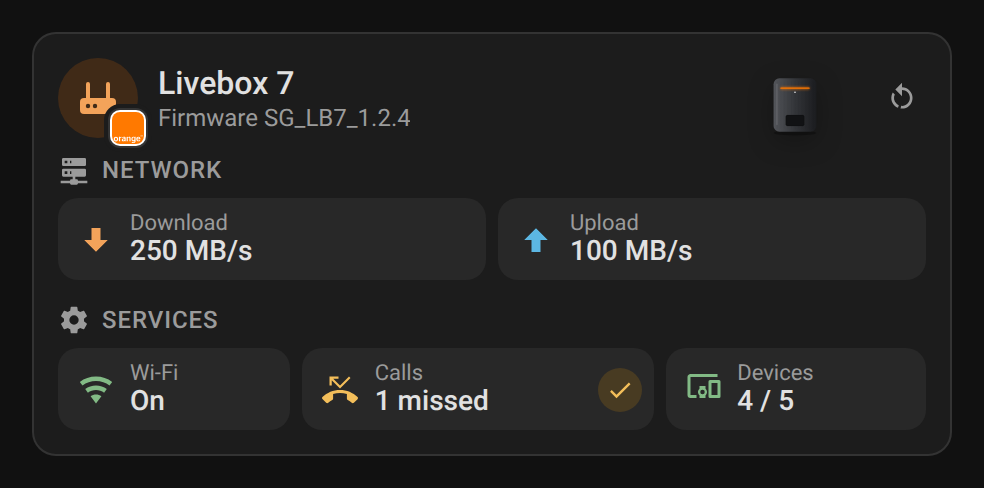
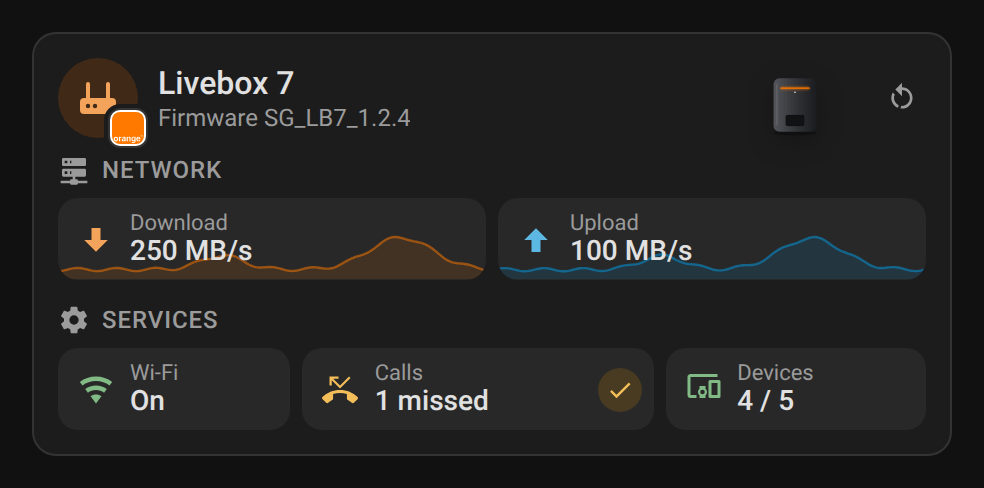
feat: 24 h history behind the rate tiles (#73)
The full card draws the last 24 hours of download / upload behind each
rate tile.

- Recorder `statistics_during_period`, 5-minute means, refreshed every 5
minutes (retries after 1 min on error)
- `show_history: false` turns it off (editor toggle, 22 languages)
- Screenshot mock answers the statistics query
- Version 2.3.0

---
_Generated by [Claude
Code](https://claude.ai/code/session_01F4sAn1Ek4h88w9whpdhjW8)_

---------

diff --git a/src/internet-box-card.js b/src/internet-box-card.js
@@ -505,6 +505,7 @@ const STRINGS = {
     admin_url: "Box admin address (optional, opened when clicking the picture)",
     show_logo: "Show the operator logo",
     show_network: "Show network",
+    show_history: "Show 24 h rate history",
     show_system: "Show system (temperatures, fans)",
     show_storage: "Show storage",
     show_services: "Show services (Wi-Fi, calls, devices)",
@@ -565,6 +566,7 @@ const STRINGS = {
     admin_url: "Adresse d'administration de la box (facultatif, ouverte au clic sur l'illustration)",
     show_logo: "Afficher le logo de l'opérateur",
     show_network: "Afficher le réseau",
+    show_history: "Afficher l’historique 24 h des débits",
     show_system: "Afficher le système (températures, ventilateurs)",
     show_storage: "Afficher le stockage",
     show_services: "Afficher les services (Wi-Fi, appels, appareils)",
@@ -624,6 +626,7 @@ const STRINGS = {
     admin_url: "Verwaltungsadresse der Box (optional, wird beim Klick auf das Bild geöffnet)",
     show_logo: "Logo des Anbieters anzeigen",
     show_network: "Netzwerk anzeigen",
+    show_history: "24-h-Verlauf der Raten anzeigen",
     show_system: "System anzeigen (Temperaturen, Lüfter)",
     show_storage: "Speicher anzeigen",
     show_services: "Dienste anzeigen (WLAN, Anrufe, Geräte)",
@@ -684,6 +687,7 @@ const STRINGS = {
     admin_url: "Dirección de administración del router (opcional, se abre al hacer clic en la imagen)",
     show_logo: "Mostrar el logotipo del operador",
     show_network: "Mostrar la red",
+    show_history: "Mostrar el historial de 24 h de las velocidades",
     show_system: "Mostrar el sistema (temperaturas, ventiladores)",
     show_storage: "Mostrar el almacenamiento",
     show_services: "Mostrar los servicios (Wi-Fi, llamadas, dispositivos)",
@@ -745,6 +749,7 @@ const STRINGS = {
     admin_url: "Администраторска адреса рутера (опционо, отвара се кликом на слику)",
     show_logo: "Прикажи лого оператера",
     show_network: "Прикажи мрежу",
+    show_history: "Прикажи историју протока за 24 ч",
     show_system: "Прикажи систем (температуре, вентилатори)",
     show_storage: "Прикажи складиште",
     show_services: "Прикажи услуге (Wi-Fi, позиви, уређаји)",
@@ -806,6 +811,7 @@ const STRINGS = {
     admin_url: "Administratorska adresa rutera (opciono, otvara se klikom na sliku)",
     show_logo: "Prikaži logo operatera",
     show_network: "Prikaži mrežu",
+    show_history: "Prikaži istoriju protoka za 24 č",
     show_system: "Prikaži sistem (temperature, ventilatori)",
     show_storage: "Prikaži skladište",
     show_services: "Prikaži usluge (Wi-Fi, pozivi, uređaji)",
@@ -866,6 +872,7 @@ const STRINGS = {
     admin_url: "Indirizzo di amministrazione del modem (facoltativo, aperto al clic sull'immagine)",
     show_logo: "Mostra il logo dell'operatore",
     show_network: "Mostra la rete",
+    show_history: "Mostra lo storico 24 h delle velocità",
     show_system: "Mostra il sistema (temperature, ventole)",
     show_storage: "Mostra l'archiviazione",
     show_services: "Mostra i servizi (Wi-Fi, chiamate, dispositivi)",
@@ -925,6 +932,7 @@ const STRINGS = {
     admin_url: "Beheeradres van de modem (optioneel, geopend bij klikken op de afbeelding)",
     show_logo: "Logo van de provider tonen",
     show_network: "Netwerk tonen",
+    show_history: "24-uursgeschiedenis van de snelheden weergeven",
     show_system: "Systeem tonen (temperaturen, ventilatoren)",
     show_storage: "Opslag tonen",
     show_services: "Diensten tonen (Wi-Fi, oproepen, apparaten)",
@@ -985,6 +993,7 @@ const STRINGS = {
     admin_url: "Endereço de administração do router (opcional, aberto ao clicar na imagem)",
     show_logo: "Mostrar o logótipo do operador",
     show_network: "Mostrar a rede",
+    show_history: "Mostrar o histórico de 24 h dos débitos",
     show_system: "Mostrar o sistema (temperaturas, ventoinhas)",
     show_storage: "Mostrar o armazenamento",
     show_services: "Mostrar os serviços (Wi-Fi, chamadas, dispositivos)",
@@ -1047,6 +1056,7 @@ const STRINGS = {
     admin_url: "Adres panelu administracyjnego routera (opcjonalny, otwierany po kliknięciu obrazu)",
     show_logo: "Pokaż logo operatora",
     show_network: "Pokaż sieć",
+    show_history: "Pokaż historię przepustowości z 24 h",
     show_system: "Pokaż system (temperatury, wentylatory)",
     show_storage: "Pokaż pamięć masową",
     show_services: "Pokaż usługi (Wi-Fi, połączenia, urządzenia)",
@@ -1107,6 +1117,7 @@ const STRINGS = {
     admin_url: "Adresa de administrare a routerului (opțional, se deschide la clic pe imagine)",
     show_logo: "Afișează sigla operatorului",
     show_network: "Afișează rețeaua",
+    show_history: "Afișează istoricul vitezelor pe 24 h",
     show_system: "Afișează sistemul (temperaturi, ventilatoare)",
     show_storage: "Afișează stocarea",
     show_services: "Afișează serviciile (Wi-Fi, apeluri, dispozitive)",
@@ -1167,6 +1178,7 @@ const STRINGS = {
     admin_url: "Routerens administrationsadresse (valgfri, åbnes ved klik på billedet)",
     show_logo: "Vis operatørens logo",
     show_network: "Vis netværk",
+    show_history: "Vis 24-timers historik for hastigheder",
     show_system: "Vis system (temperaturer, blæsere)",
     show_storage: "Vis lager",
     show_services: "Vis tjenester (Wi-Fi, opkald, enheder)",
@@ -1227,6 +1239,7 @@ const STRINGS = {
     admin_url: "Routerns administrationsadress (valfri, öppnas vid klick på bilden)",
     show_logo: "Visa operatörens logotyp",
     show_network: "Visa nätverk",
+    show_history: "Visa 24 h-historik för hastigheter",
     show_system: "Visa system (temperaturer, fläktar)",
     show_storage: "Visa lagring",
     show_services: "Visa tjänster (Wi-Fi, samtal, enheter)",
@@ -1287,6 +1300,7 @@ const STRINGS = {
     admin_url: "Администраторски адрес на рутера (по избор, отваря се при щракване върху изображението)",
     show_logo: "Показване на логото на оператора",
     show_network: "Показване на мрежата",
+    show_history: "Показване на 24-часовата история на скоростите",
     show_system: "Показване на системата (температури, вентилатори)",
     show_storage: "Показване на хранилището",
     show_services: "Показване на услугите (Wi-Fi, обаждания, устройства)",
@@ -1347,6 +1361,7 @@ const STRINGS = {
     admin_url: "Адрес веб-интерфейса роутера (необязательно, открывается по нажатию на изображение)",
     show_logo: "Показывать логотип оператора",
     show_network: "Показывать сеть",
+    show_history: "Показать историю скоростей за 24 ч",
     show_system: "Показывать систему (температуры, вентиляторы)",
     show_storage: "Показывать хранилище",
     show_services: "Показывать сервисы (Wi-Fi, звонки, устройства)",
@@ -1408,6 +1423,7 @@ const STRINGS = {
     admin_url: "Адреса вебінтерфейсу роутера (необов’язково, відкривається натисканням на зображення)",
     show_logo: "Показувати логотип оператора",
     show_network: "Показувати мережу",
+    show_history: "Показати історію швидкостей за 24 год",
     show_system: "Показувати систему (температури, вентилятори)",
     show_storage: "Показувати сховище",
     show_services: "Показувати сервіси (Wi-Fi, дзвінки, пристрої)",
@@ -1467,6 +1483,7 @@ const STRINGS = {
     admin_url: "A router felügyeleti címe (nem kötelező, a képre kattintva nyílik meg)",
     show_logo: "A szolgáltató logójának megjelenítése",
     show_network: "Hálózat megjelenítése",
+    show_history: "Sebességek 24 órás előzményeinek megjelenítése",
     show_system: "Rendszer megjelenítése (hőmérsékletek, ventilátorok)",
     show_storage: "Tárhely megjelenítése",
     show_services: "Szolgáltatások megjelenítése (Wi-Fi, hívások, eszközök)",
@@ -1528,6 +1545,7 @@ const STRINGS = {
     admin_url: "Administračná adresa routera (voliteľná, otvorí sa po kliknutí na obrázok)",
     show_logo: "Zobraziť logo operátora",
     show_network: "Zobraziť sieť",
+    show_history: "Zobraziť 24 h históriu rýchlostí",
     show_system: "Zobraziť systém (teploty, ventilátory)",
     show_storage: "Zobraziť úložisko",
     show_services: "Zobraziť služby (Wi-Fi, hovory, zariadenia)",
@@ -1589,6 +1607,7 @@ const STRINGS = {
     admin_url: "Administrační adresa routeru (volitelná, otevře se kliknutím na obrázek)",
     show_logo: "Zobrazit logo operátora",
     show_network: "Zobrazit síť",
+    show_history: "Zobrazit 24h historii rychlostí",
     show_system: "Zobrazit systém (teploty, ventilátory)",
     show_storage: "Zobrazit úložiště",
     show_services: "Zobrazit služby (Wi-Fi, hovory, zařízení)",
@@ -1651,6 +1670,7 @@ const STRINGS = {
     admin_url: "Skrbniški naslov usmerjevalnika (neobvezno, odpre se ob kliku na sliko)",
     show_logo: "Prikaži logotip operaterja",
     show_network: "Prikaži omrežje",
+    show_history: "Prikaži 24-urno zgodovino hitrosti",
     show_system: "Prikaži sistem (temperature, ventilatorji)",
     show_storage: "Prikaži shrambo",
     show_services: "Prikaži storitve (Wi-Fi, klici, naprave)",
@@ -1711,6 +1731,7 @@ const STRINGS = {
     admin_url: "Maršrutētāja administrēšanas adrese (neobligāta, tiek atvērta, noklikšķinot uz attēla)",
     show_logo: "Rādīt operatora logotipu",
     show_network: "Rādīt tīklu",
+    show_history: "Rādīt ātrumu 24 h vēsturi",
     show_system: "Rādīt sistēmu (temperatūras, ventilatori)",
     show_storage: "Rādīt krātuvi",
     show_services: "Rādīt pakalpojumus (Wi-Fi, zvani, ierīces)",
@@ -1771,6 +1792,7 @@ const STRINGS = {
     admin_url: "Διεύθυνση διαχείρισης του δρομολογητή (προαιρετική, ανοίγει με κλικ στην εικόνα)",
     show_logo: "Εμφάνιση λογότυπου παρόχου",
     show_network: "Εμφάνιση δικτύου",
+    show_history: "Εμφάνιση ιστορικού ταχυτήτων 24 ωρών",
     show_system: "Εμφάνιση συστήματος (θερμοκρασίες, ανεμιστήρες)",
     show_storage: "Εμφάνιση αποθήκευσης",
     show_services: "Εμφάνιση υπηρεσιών (Wi-Fi, κλήσεις, συσκευές)",
@@ -2393,7 +2415,11 @@ const BASE_STYLE = `
   @container (max-width: 200px) { .box-link { display: none; } }
   .box { height: 48px; width: auto; max-width: 100%; object-fit: contain; filter: drop-shadow(0 4px 6px rgba(0,0,0,.25)); }
   .tile { display: flex; align-items: center; gap: 8px; padding: 6px 10px; border-radius: 10px; min-width: 0;
-          background: var(--secondary-background-color, rgba(127,127,127,.08)); }
+          background: var(--secondary-background-color, rgba(127,127,127,.08)); position: relative; overflow: hidden; }
+  .tile > :not(.spark) { position: relative; }
+  .tile .spark { position: absolute; left: 0; bottom: 0; width: 100%; height: 55%; pointer-events: none; }
+  .spark-a { fill: color-mix(in srgb, var(--c) 12%, transparent); }
+  .spark-l { fill: none; stroke: color-mix(in srgb, var(--c) 50%, transparent); stroke-width: 1.2; vector-effect: non-scaling-stroke; }
   .tile .icon { color: color-mix(in srgb, var(--c, var(--ibc-red)) 60%, var(--primary-text-color)); }
   .tile > div { min-width: 0; }
   .tile .k { font-size: 11px; color: var(--secondary-text-color); white-space: nowrap; overflow: hidden; text-overflow: ellipsis; }
@@ -2432,6 +2458,15 @@ const DIALOG_STYLE = `
   .modal button.cancel:hover { background: color-mix(in srgb, var(--secondary-text-color) 16%, var(--secondary-background-color, transparent)); }
   .modal button.danger:hover { background: color-mix(in srgb, var(--ibc-red) 26%, transparent); }
 `;
+
+// Sparkline of a series (24 h of rates), scaled from 0 to its peak; nothing under two points.
+const HIST_REFRESH = 5 * 60000;
+function spark(values) {
+  if (!values || values.length < 2) return "";
+  const peak = Math.max(...values) || 1;
+  const pts = values.map((v, i) => `${((i / (values.length - 1)) * 100).toFixed(2)},${(30 - (Math.max(0, v) / peak) * 28).toFixed(2)}`).join("L");
+  return `<svg class="spark" viewBox="0 0 100 30" preserveAspectRatio="none" aria-hidden="true"><path class="spark-a" d="M0,30L${pts}L100,30Z"/><path class="spark-l" d="M${pts}"/></svg>`;
+}
 
 class InternetBoxBase extends HTMLElement {
   constructor() {
@@ -2606,8 +2641,8 @@ class InternetBoxBase extends HTMLElement {
   }
 
   // Download / upload rate tile, shared by the full and the mini card.
-  _rateTile(id, cls, icon, k) {
-    return `<div class="tile clickable ${cls}" role="button" tabindex="0" data-entity="${id || ""}">${svgIcon(icon)}<div><div class="k">${k}</div><div class="v">${this._rate(
+  _rateTile(id, cls, icon, k, hist) {
+    return `<div class="tile clickable ${cls}" role="button" tabindex="0" data-entity="${id || ""}">${spark(hist?.[id])}${svgIcon(icon)}<div><div class="k">${k}</div><div class="v">${this._rate(
       id
     )}</div></div></div>`;
   }
@@ -2630,6 +2665,34 @@ class InternetBoxBase extends HTMLElement {
     for (const id of ids) sig.push(h.states[id]);
     if (this._s(box.scalars.router)?.attributes?.uptime) sig.push(Math.floor(Date.now() / 60e3));
     return sig;
+  }
+
+  // 24 h of 5-minute means from the recorder's statistics, fetched again every 5 minutes. Returns what is
+  // already there (nothing at first): the card renders again when the answer comes.
+  _history(ids) {
+    const key = ids.join(",");
+    if (key && this._hass.callWS && (this._histKey !== key || Date.now() - this._histAt > HIST_REFRESH)) {
+      this._histKey = key;
+      this._histAt = Date.now();
+      this._hass
+        .callWS({
+          type: "recorder/statistics_during_period",
+          start_time: new Date(Date.now() - 864e5).toISOString(),
+          statistic_ids: ids,
+          period: "5minute",
+          types: ["mean"],
+        })
+        .then((r) => {
+          if (this._histKey !== key) return;
+          this._hist = Object.fromEntries(ids.map((id) => [id, (r?.[id] || []).map((p) => p.mean).filter(Number.isFinite)]));
+          this._update();
+        })
+        // No statistics (sensor without state_class, recorder off): try again in a minute, no curve meanwhile.
+        .catch(() => {
+          this._histAt = Date.now() - HIST_REFRESH + 60000;
+        });
+    }
+    return this._histKey === key ? this._hist : null;
   }
 
   _update(sig) {
@@ -2876,11 +2939,12 @@ class InternetBoxCard extends InternetBoxBase {
           this._config
         )}</span>`
       );
+    const hist = this._config.show_history === false ? null : this._history([sc.rate_down, sc.rate_up].filter(Boolean));
     return `<div>
       <div class="section-title">${svgIcon(ICONS.network)}${this._t("network")}</div>
       <div class="grid2">
-        ${this._rateTile(sc.rate_down, "down", ICONS.down, this._t("download"))}
-        ${this._rateTile(sc.rate_up, "up", ICONS.up, this._t("upload"))}
+        ${this._rateTile(sc.rate_down, "down", ICONS.down, this._t("download"), hist)}
+        ${this._rateTile(sc.rate_up, "up", ICONS.up, this._t("upload"), hist)}
       </div>
       ${facts.length ? `<div class="facts">${facts.join("")}</div>` : ""}
     </div>`;
@@ -3290,7 +3354,7 @@ class InternetBoxEditorBase extends HTMLElement {
 
 class InternetBoxCardEditor extends InternetBoxEditorBase {
   static get toggles() {
-    return ["show_network", "show_system", "show_storage", "show_services"];
+    return ["show_network", "show_history", "show_system", "show_storage", "show_services"];
   }
 }
 

diff --git a/README.md b/README.md
@@ -33,7 +33,7 @@ Entities are **discovered automatically**, you don't have to pick them one by on
 - Header icon of the kind of connection (fibre, xDSL, 4G / 5G, else a box) in the operator colour, with the operator logo as a badge; accent colour, website and admin links follow the detected operator
 - Picture and commercial name of the box model, detected automatically or set with the `model` option, and firmware version
 - Connection status and type (FTTH, xDSL…), public IPv4 (IPv6 on hover) and uptime
-- Download / upload rates, in bytes (kB/s, MB/s) or bits (kb/s, Mb/s)
+- Download / upload rates, in bytes (kB/s, MB/s) or bits (kb/s, Mb/s), with their last 24 hours drawn behind each tile (recorder statistics)
 - Temperature gauges and fans speed
 - Storage: free space of the disk partitions and RAID status
 - Services: Wi-Fi state, missed calls and connected devices (the mini card footer always shows the missed calls, orange when there are some)
@@ -155,6 +155,7 @@ language: fr
 | `show_image` | both | `true` | Show the box picture |
 | `show_logo` | both | `true` | Show the header icon of the connection with the operator logo (opens the operator website when clicked) |
 | `show_network` | both | `true` | Download / upload rates (and IPv4, uptime on the full card) |
+| `show_history` | full | `true` | 24 h curve behind the download / upload tiles, from the recorder's 5-minute statistics (rate sensors with a `state_class`) |
 | `show_system` | both | `true` | Temperatures and fans (hottest temperature on the mini card) |
 | `show_storage` | full | `true` | Disk partitions and RAID status |
 | `show_services` | full | `true` | Wi-Fi, missed calls and connected devices |

diff --git a/CHANGELOG.md b/CHANGELOG.md
@@ -1,5 +1,10 @@
 # Changelog
 
+## 2.3.0 - 2026-11-07
+
+### Features
+- Full card: the download and upload tiles draw their last 24 hours behind the rate (recorder 5-minute statistics, refreshed every 5 minutes). `show_history: false` turns it off (also in the visual editor).
+
 ## 2.2.2 - 2026-11-04
 
 ### Documentation
